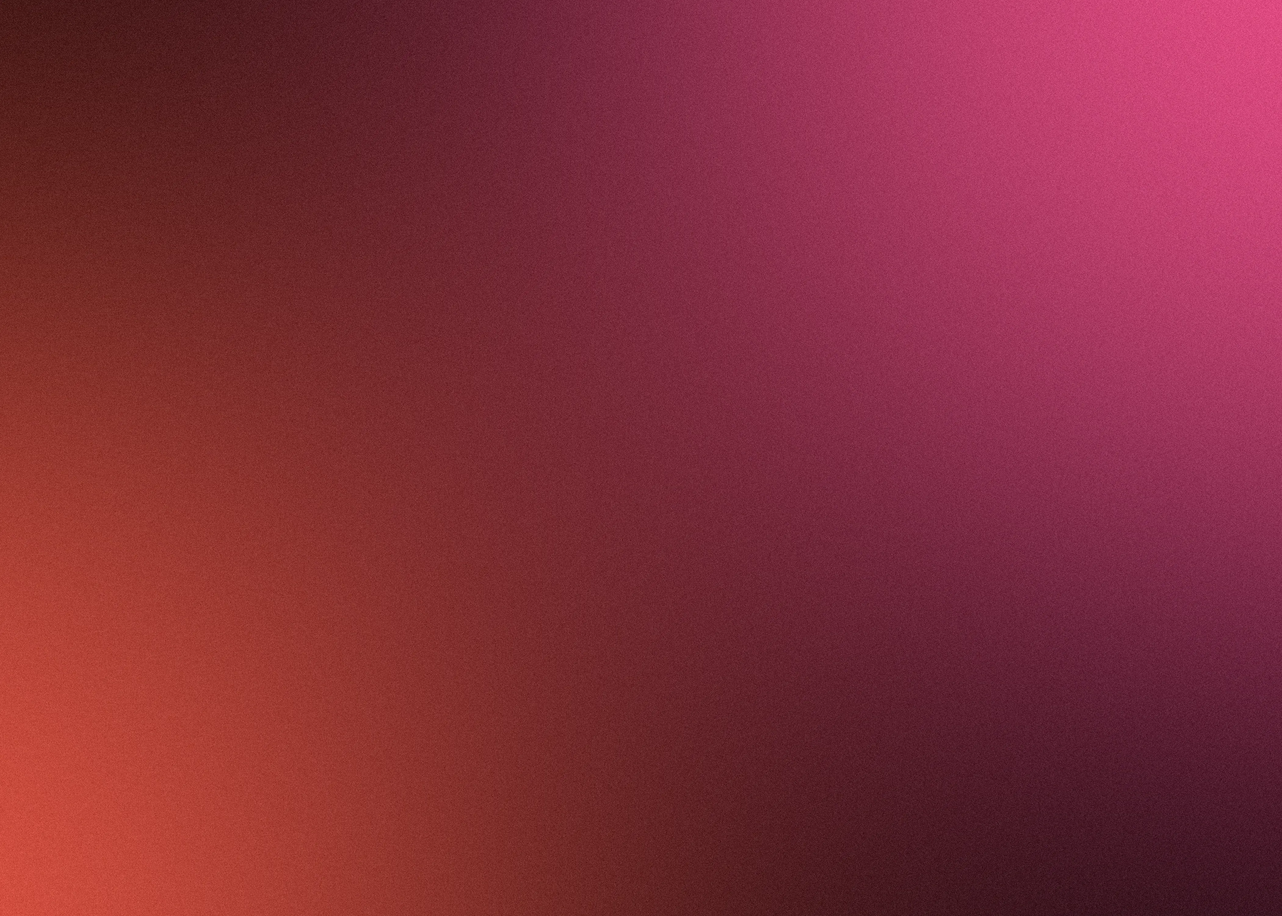
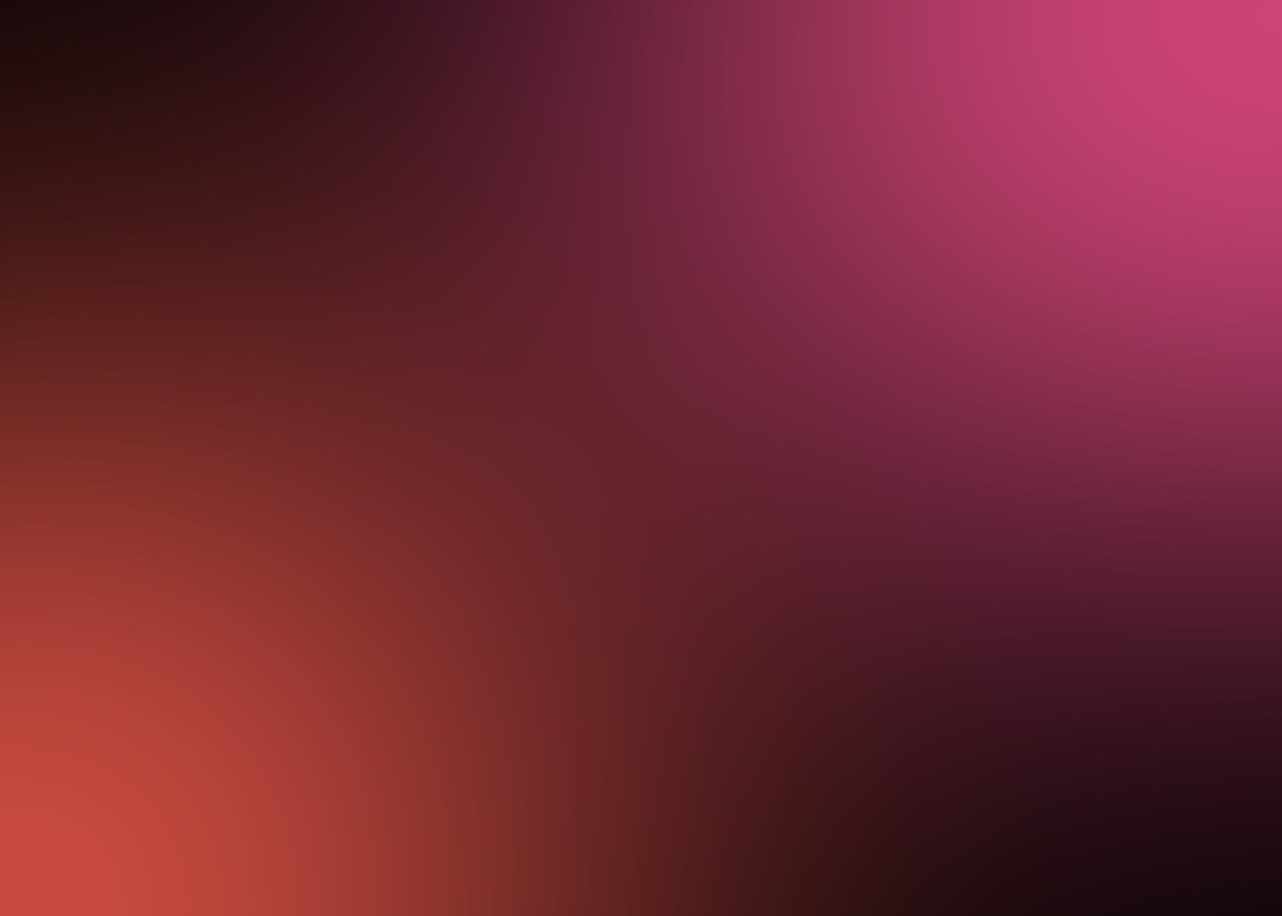
Improved grain

diff --git a/src/components/Background.svelte b/src/components/Background.svelte
@@ -3,7 +3,7 @@
 
   interface Props {
     imageSrc?: string;
-    loadCallback?: (cached: boolean) => void;
+    loadCallback?: () => void;
   }
 
   let { imageSrc = "background.webp", loadCallback }: Props = $props();
@@ -19,7 +19,7 @@
       imageRef.style.opacity = "1";
 
       if (loadCallback) {
-        loadCallback(true);
+        loadCallback();
       }
 
       return;
@@ -41,6 +41,10 @@
   <img id="img" alt="Background" bind:this={imageRef} />
 </div>
 
+<div id="filter-container">
+  <rect style='background-image: url(https://upload.wikimedia.org/wikipedia/commons/9/9a/512x512_Dissolve_Noise_Texture.png)'/>
+</div>
+
 <style lang="scss">
   #background {
     overflow: hidden;
@@ -49,7 +53,46 @@
     height: 100vh;
     top: 0;
     left: 0;
-    z-index: -1;
+    z-index: -2;
+
+    animation: slightRotate 10s linear infinite;
+  }
+
+  @keyframes slightRotate {
+    0% {
+      transform: rotate(0deg);
+      filter: brightness(1);
+    }
+    50% {
+      transform: rotate(30deg) scale(2);
+      filter: brightness(1.1)
+    }
+    100% {
+      transform: rotate(0deg);
+      filter: brightness(1);
+    }
+  }
+
+  rect {
+    position: absolute;
+    top: 0;
+    left: 0;
+    width: 100%;
+    height: 110%;
+    mix-blend-mode: overlay;
+    background-repeat: repeat;
+    opacity: 0.2;
+    background-size: 400px;
+  }
+
+  #filter-container {
+    position: absolute;
+    top: 0;
+    left: 0;
+    width: 100%;
+    height: 100%;
+    opacity: 0.4;
+    mix-blend-mode: overlay;
   }
 
   #img {
@@ -60,13 +103,8 @@
     right: 0;
     display: block;
     pointer-events: none;
-    filter: noise(10);
     transform: scaleX(-1) scale(1.3);
     opacity: 0;
     transition: opacity 1s ease;
-  }
-
-  .hidden {
-    display: none;
   }
 </style>
